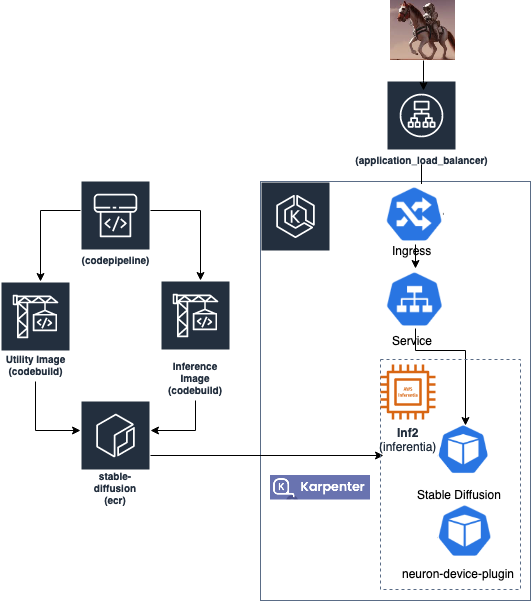
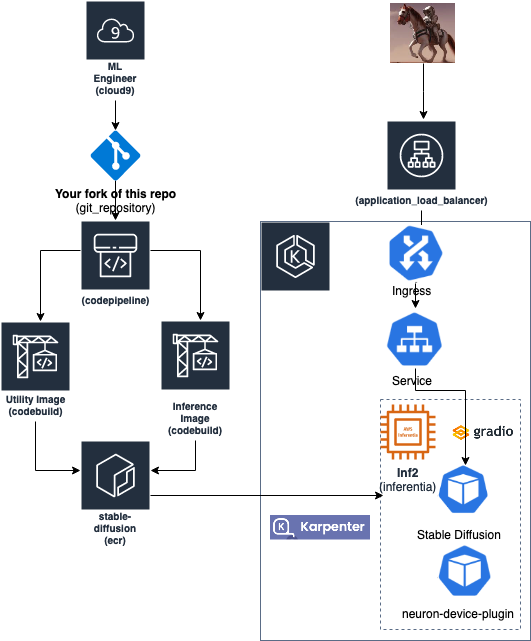
readme

diff --git a/sd_hf_serve/README.md b/sd_hf_serve/README.md
@@ -2,7 +2,7 @@
 
 Inference services need to be (1) reliable, (2) performant, and (3) cost-effective. Reliability involves quick and automatic recovering from hardware and software failures. Performant means low latency response to user requests that includes scaling compute accelerators seamlessly, quickly, and keeping resource utilization optimal and finally, releasing resources not needed.  
 
-This solution describes an inference pipeline that implements reliable, performant and cost-effective AWS services using EC2 Inferentia instances.  
+This solution describes a `stabilityai/stable-diffusion-2-1-base` [inference pipeline](oci-image-build) that implements reliable, performant and cost-effective AWS services using EC2 Inferentia instances. CodePipeline orchestrates CodeBuild DLC-based container images that are sourced in github repository and pushed to ECR. We compile the model with a [K8s batch/v1 Job](sd21-512-compile-job.yaml) that stores it in S3. Next, we deploy [K8s apps/v1 Deployment](sd21-512-serve-deploy.yaml) that pulls the model from S3 and instanciate it from images stored in ECR. Finally, we deploy [networking.k8s.io/v1 Ingress](sd21-512-serve-ingress.yaml) that builds AWS LoadBalancer and TargetGroups that auto discover the pods that power the Inference app (Gardio). 
 ![alt text](./sdhfserve.png)
 
 For reliability, we use Karpenter. Karpenter node-pool manages Inferentia node lifecycle. Karpenter adds Inferentia nodes to handle unschedulable pods, schedules pods on those nodes, and removes them when not needed. 
@@ -52,6 +52,32 @@ The solution performance comprises of the time it takes to bring neuron devices 
     volumes:
       - name: workdir
         emptyDir: {}
+```
+
+Gradio app networking rules are defined by the Ingress deployment, which includes application readiness, health, and traffic routing rules like session stickiness. Readiness and health rules need to align with the K8s deployment specification to minimize end-user impact during unexpected failures or scale-down events. e.g., 
+
+```yaml
+        readinessProbe:
+          httpGet:
+            path: /readiness
+            port: 8000
+          initialDelaySeconds: 60
+          periodSeconds: 10
+```
+
+Tell Kubelet to consider the pod ready when HTTP Get every 10 seconds to /readiness URI on the pod is successful only after 60 seconds. This will allow the pod to load the model from external stores such as Hugging Face and S3. The Ingress annotations will instruct ALB to probe the pod /health URI every 10 seconds to consider the pod healthy.  
+
+```yaml
+  annotations:
+    kubernetes.io/ingress.class: alb
+    alb.ingress.kubernetes.io/scheme: internet-facing
+    alb.ingress.kubernetes.io/target-type: ip
+    alb.ingress.kubernetes.io/healthcheck-path: /health
+    alb.ingress.kubernetes.io/healthcheck-interval-seconds: '10'
+    alb.ingress.kubernetes.io/healthcheck-timeout-seconds: '9'
+    alb.ingress.kubernetes.io/healthy-threshold-count: '2'
+    alb.ingress.kubernetes.io/unhealthy-threshold-count: '3'
+    alb.ingress.kubernetes.io/success-codes: '200-301'
 ```
 
 This is a StableDiffusionPipeline based on `stabilityai/stable-diffusion-2-1-base`. Updated compile and benchmark code is in [sd2_512_benchmark](https://github.com/aws-neuron/aws-neuron-sdk/blob/master/src/benchmark/pytorch/sd2_512_benchmark.py) and [sd2_512_compile](https://github.com/aws-neuron/aws-neuron-sdk/blob/master/src/benchmark/pytorch/sd2_512_compile.py)
